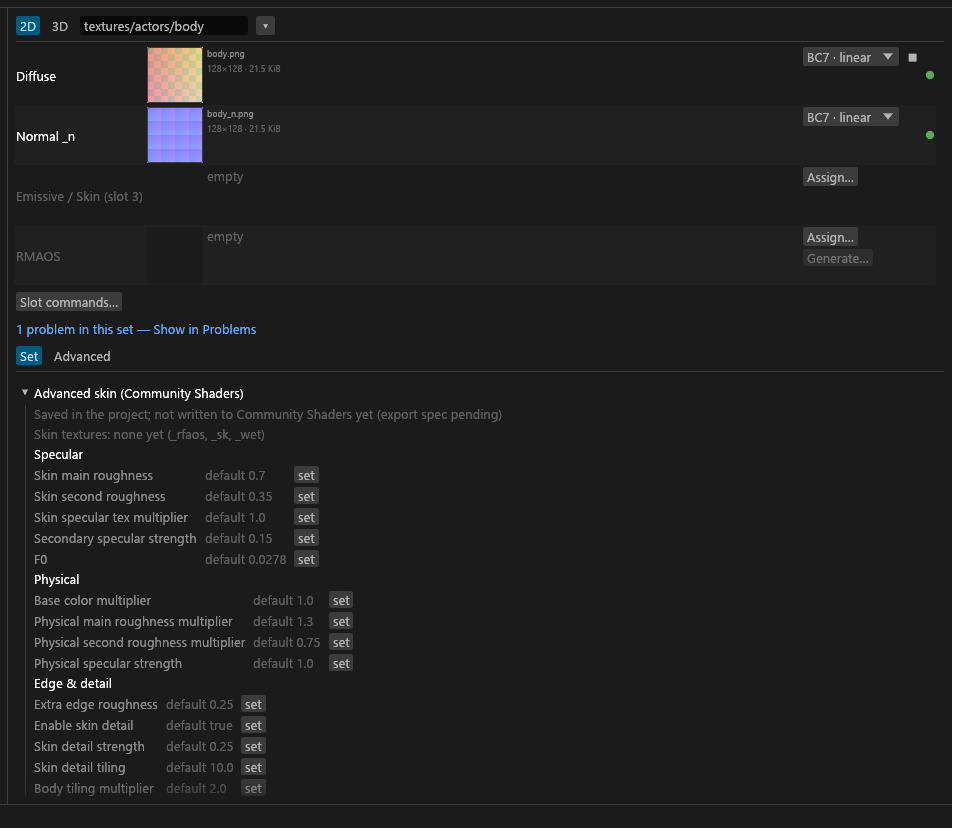
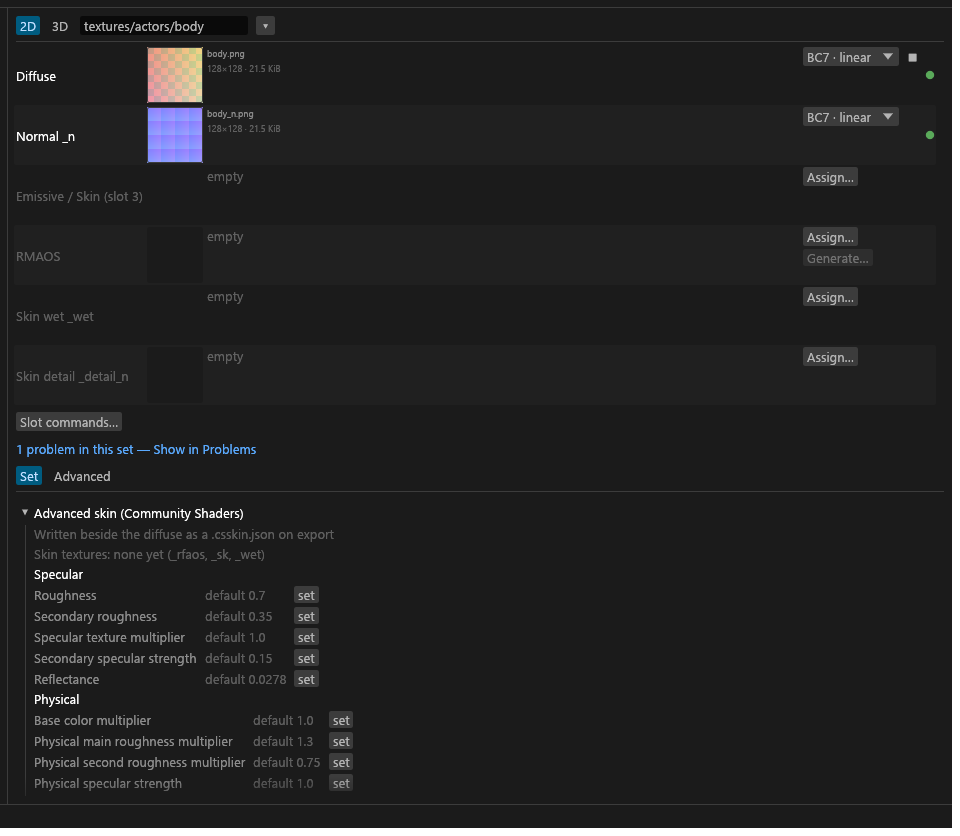
docs: Note HB CS Advanced Skin material files; wiki, changelog, skin card shot

diff --git a/.claude/DECISIONS.md b/.claude/DECISIONS.md
@@ -9,29 +9,29 @@ A new note goes at the end of this file and adds its letter to the index line of
 
 ## Index
 
-- Engine policy (formats, alpha gate, versions, writes): Answers, A, B, D, E, F, I, K, L, M, O, R, S, T, W, Y, AC, AG, AK, AV, AW, AX, AZ, BB, BC, BF, BJ, BL, BQ, BV, DB, DC, DM, DS, DY, FA, FF, FL, GJ, FM, FQ, FV, FZ
+- Engine policy (formats, alpha gate, versions, writes): Answers, A, B, D, E, F, I, K, L, M, O, R, S, T, W, Y, AC, AG, AK, AV, AW, AX, AZ, BB, BC, BF, BJ, BL, BQ, BV, DB, DC, DM, DS, DY, FA, FF, FL, GJ, FM, FQ, FV, FZ, HB
 - Analysis and alpha: A, E, L, M, S, T, U, X, Y, AH, AK, BC, CL, CN, DQ, DS, DU, DV, DW, DZ, FC, FM
 - Mips and resize: E, R, S, W, X, Y, CL, FM
 - Encoders: F, O, S, T, BZ, CB, CP, FE, FF, FJ, FM, FQ, FZ
 - Packing and helpers: B, H, I, M, R, W, AL, BB, BP, BQ, BV, CN, DR, DY, FB, FM, FQ, FV
 - Bake and RNM: E, M, R, W, Y, AL, BP, CL, CO, DP, FM, FN, FO, FV
 - Cubemaps: DL, DN, DS, DT, FA, FC, FM, FO, FQ, FT, FY
-- Presets and config: G, N, S, T, X, AE, AL, AM, AP, AS, AV, AZ, BC, BJ, BO, BQ, BR, BV, CN, CV, FB, FL, FM, FQ, FX, FY
-- Manifest and outputs: F, M, N, S, Y, AE, AF, AL, BJ, BQ, BV, CN, CT, DM, DY, FC, FM, FZ
-- Exports (PGPatcher, CS PBR, CM, XPMF, Also): P, V, AA, AB, AC, AD, AF, AG, AN, AT, BO, BR, BV, BY, CN, CO, CV, GE, GI, FM, FN, FO, FP, FT, FW, FV
+- Presets and config: G, N, S, T, X, AE, AL, AM, AP, AS, AV, AZ, BC, BJ, BO, BQ, BR, BV, CN, CV, FB, FL, FM, FQ, FX, FY, HB
+- Manifest and outputs: F, M, N, S, Y, AE, AF, AL, BJ, BQ, BV, CN, CT, DM, DY, FC, FM, FZ, HB
+- Exports (PGPatcher, CS PBR, CM, XPMF, Also): P, V, AA, AB, AC, AD, AF, AG, AN, AT, BO, BR, BV, BY, CN, CO, CV, GE, GI, FM, FN, FO, FP, FT, FW, FV, HB
 - CLI: I, J, K, X, BC, BQ, CN, DY, FC, FM, FX
-- GUI Files and Inspector: N, P, S, U, Z, AA, AE, AF, AG, AM, AN, AO, AV, AY, BH, BI, BN, BO, BR, BS, BV, BY, CA, CC, CD, CE, CF, CG, CV, DN, DO, DP, DU, DZ, FA, FB, FC, FD, FI, FK, FL, FM, FN, FO, FP, FT, FS, FW, FU, FY
+- GUI Files and Inspector: N, P, S, U, Z, AA, AE, AF, AG, AM, AN, AO, AV, AY, BH, BI, BN, BO, BR, BS, BV, BY, CA, CC, CD, CE, CF, CG, CV, DN, DO, DP, DU, DZ, FA, FB, FC, FD, FI, FK, FL, FM, FN, FO, FP, FT, FS, FW, FU, FY, HB
 - GUI Settings panel: S, V, X, Z, AF, AG, AJ, AN, AS, AW, BM, BS, CC, CL, CV, FB, FC, FM, FS, FT, FY
 - GUI Meshes view: BA, BT, CV, CZ, FC, FI, GC, GD, GH, GJ, GK, GN, GO, GP, FO, GQ
 - GUI Preview and 3D: N, AG, AQ, AU, BS, CE, CJ, CL, CM, DT, FA, GD, GG, GH, GJ, GK, GL, GM, FM, FO, GQ, FS, FT, FY, FZ
-- GUI Dialogs and Export: AG, BH, BO, BR, BV, BY, CA, CD, CE, CF, CN, CV, DT, FB, FC, FI, FM, FN, FO, FP, FS, FW, FU
+- GUI Dialogs and Export: AG, BH, BO, BR, BV, BY, CA, CD, CE, CF, CN, CV, DT, FB, FC, FI, FM, FN, FO, FP, FS, FW, FU, HB
 - modscan: BE, BQ, BT, BU, BW, BY, CK, CM, CN, CV, CW, DA, GA, GB, GC, GD, GJ, GO, GP, GQ
 - vfs: AV, BP, BU, CV
 - esp: GG, GO, GQ
 - nif: BT, CI, CM, CQ, CR, CS, CU, CV, CY, DJ, DK, GA, GC, GD, GF, GH, GP, GQ
 - render3d: BT, CI, CJ, CM, CV, CX, DL, GA, GG, GJ, GL, GM, GN, GP, FM, GQ
 - pgpsim: AU, CM, GE
-- Process and docs: Answers, BX, DM, FD, FG, FH, FM, HA
+- Process and docs: Answers, BX, DM, FD, FG, FH, FM, HA, HB
 
 ## Digest
 
@@ -176,7 +176,7 @@ Rules still in force at 2.0, one or two lines each, with the 1.x IDs (in `.claud
 - Suffix vocabulary follows industry names; `_normalgl`/`_normaldx` resolve automatically. [H]
 - Missing packed channels get neutral defaults plus a warning (AO white, metallic black, specular alpha white); roughness default 0.5. Fills are per packed output, `packing.fill.<role>`, 0–255. [H, M5, R-fills-2]
 - `packing.recipe` = `auto`, `rmaos` or `rfaos`; `rfaos` without fuzz uses the fuzz fill. [R-fills-1]
-- Advanced skin sub-types: `skin_albedo`, `skin_rf`, `skin_sk`, `skin_wet`. `rfaos` is not a sub-type id. [R-skin-1, R-review, FM11]
+- Advanced skin sub-types: `skin_albedo`, `skin_rf`, `skin_sk`, `skin_wet`, `skin_detail` (HB4). `rfaos` is not a sub-type id. [R-skin-1, R-review, FM11]
 - A skin `_f` fills the RFAOS fuzz mask in a set already Advanced skin by other evidence; `_f` never makes a set Advanced skin by itself; a real `_fuzz`/`_sheen` wins G. [DR1, DR2, DR3, DR7]
 - Env mask: a complex-material `_m` R is the metallic source, else specular, else the fill. [M1]
 - Raw maps without a recipe raise `PACK-UNUSED-INPUT` and are not written; with two raw maps of one role the first by path is used. [M2, M13]
@@ -197,7 +197,7 @@ Rules still in force at 2.0, one or two lines each, with the 1.x IDs (in `.claud
 - Helpers are a collapsible group under the tiles, not a filter pill; helper rows take the keyboard. [FB12, FM31]
 - `SET-MISSING-COMPANION` (info): a cs PBR set with `pbr_normal` but no roughness or the reverse, `_msn` without `_s` (not Eye), `_flow` without `_n`; `SET-COMPANION-DDS` (warning) when the companion is only a DDS. Neither on a `CFG-UNAVAILABLE` job or an albedo-only PBR set. [R8, BQ12]
 - A usable `_n` is decided (Ready, or Blocked such as `FMT-BC5-NORMAL`); an Unresolved `_n` gives its members `SET-MISSING-COMPANION` ("not decided yet"); with two `pbr_normal` jobs in a GUI-built set the first by path is used. [R9]
-- `_wet` is a suffix only on `cs` in an Advanced skin set (a real `_rfaos` member or a resolved recipe building `_rfaos`); `group::join_skin_wet` (after grouping, before set edits) moves `x_wet` into set `x`, folding Unicode; elsewhere `_wet` stays in the name (`road_wet`). A set listing `wet` keeps a suffix-less `*_wet` member through a Set Rename. [I3, BP2, BV9]
+- `_wet` and `_detail_n` (HB4) are suffixes only on `cs` in an Advanced skin set (a real `_rfaos` member or a resolved recipe building `_rfaos`); `group::join_skin_wet` (after grouping, before set edits) moves `x_wet` and `x_detail_n` into set `x`, folding Unicode; elsewhere they stay in the name (`road_wet`; `x_detail_n` groups as before). A set listing `wet` keeps a suffix-less `*_wet` member through a Set Rename. [I3, BP2, BV9]
 - Skin detection uses the recipe actually chosen (a forced `rmaos` with fuzz is not skin). RFAOS is offered only where buildable (roughness, glossiness or AO source); `PACK-RECIPE-UNBUILDABLE` is attached only when `auto` would not build `_rfaos`. [I1, I2, BQ13]
 - A failed or cancelled skin `_f` fails the `_rfaos` recipe (no default G): `pack::plan::skin_f_candidate` is the one predicate, `is_skin_f` adds "no requested sub-type", and `plan_packing` takes a role from `JobStatus::PackingInput { role }` when the name has none. A skin set writes no `_f.dds`; an old one is not removed. [DR4, DR5, DR8, DR9]
 - An `_orm` source adds an optional `channel` (0..=2) to `ChannelSource::Source`, serialised only when set (other jobs keep their bytes); provenance reads `iron_orm.png:G`. `RawMap::ALL` stays the eight single-channel fill roles (a fill for `orm` is refused). `_curvature` and `_curves` read as `curves`, `_cavity` as `cavity`. [AL3, CN2]
@@ -350,7 +350,7 @@ Rules still in force at 2.0, one or two lines each, with the 1.x IDs (in `.claud
 - A MATO-only landscape set needs no RMAOS. CS does not draw the projected normal and detail samples in this build (slot hover says so); they still export. A landscape `_noise` is always ProjectedNoise; a name-prefixed `_detail` stays an RNM layer. The two new kinds have no slot number, so no slot-keyed map gets them. The card shows every refusal `prepare` can know. The preview takes the profile's textures, coverage, then MATO DATA, cycling the layer when texture paths change. [GI10, GI15, GI16, GI17, GI18, GI19, GI21, GI22, GI25, GI28, GI29]
 - Delete sections are `[[pgp_sections]]` with `delete: true`, written after every set's entry, only with a texture match; alone they never write the JSON. [AB2, AF1]
 - JSON hash records name their file, one per file name. [BV7, BR6]
-- Advanced skin sets get no PGPatcher JSON. [AG90]
+- Advanced skin sets get no PGPatcher JSON; they get a `.csskin.json` instead (HB1). [AG90]
 - Community Shaders PBR texture sets and material objects: blocks from one source, guarded by the recorded hash, refusals per file. [AD1, AD2, AD5, AD6]
 - PGPatcher complex-material JSON (`[sets.cm]`); vanilla keeps a complex `_m`. [AT1, AT2]
 - XPMF profiles: every schema key in the block, one file per set named from the set id, the vendored schema checked before every write, null or empty optional values omitted, an `xpmf_sha256` record in a writable `sdc-project.toml`. [GI1, GI2, GI7, GI8, GI23]
@@ -373,7 +373,6 @@ Rules still in force at 2.0, one or two lines each, with the 1.x IDs (in `.claud
 - Vanilla/CPM borrowed slots are file copies, not tracked by the manifest; skipped with a note when the owner's output did not export. [P4, P22]
 - Krita and OpenRaster files are not read; PSD/PSB merged image and WebP are. [AC1, AC7, FM23]
 - OPEN: the CLI marks no inner-layer `_p`; a packed job is never copied under Also export. [CN]
-- OPEN: Community Shaders Advanced Skin override JSON export (the skin card's "Export JSON…" is a disabled placeholder, spec pending). [AG90]
 
 ### CLI
 
@@ -507,7 +506,7 @@ Rules still in force at 2.0, one or two lines each, with the 1.x IDs (in `.claud
 - `rename` is a file name (a `\` or `/` blocks export, one `.dds` cut); the prefix comes from the lowest active `matchN` under `textures\pbr\`. The TruePBR box: visual settings, Matching, then collapsed Advanced TruePBR settings (`path_contains`, `nif_filter`, `rename`, UV, vertex, locks, inner UV scale, coat colour). [V3, V7]
 - A set's slot cards are the picked shader's usable slots, filled or empty, plus filled slots it cannot use (amber outline, hover reason), ordered by PGPatcher slot 1-8. [V8]
 - Advanced skin card is separate from TruePBR, with non-inheritable fields and UI-only ranges. [AG79, AG81, AG83]
-- The skin card has the 20 `SkinProfile` fields in CS README order and key names, grouped Specular (5), Physical (4), Edge & detail (5), SSS (3), Fuzz (3); stored in the set's reserved `skin` table (explicit values; unknown keys survive), 4 decimals, one undo step per edit (a drag merges), never bulk; `_rfaos`, `_sk`, `_wet` members show as text. [AG80, AG82, AG84, AG85, AG89]
+- The skin card has the 22 CS Advanced Skin parameters in the contract's key names, in six groups: Specular, Physical, Edge & detail, Transmission, Fuzz, Wet (HB1, HB5); stored in the set's reserved `skin` table (explicit values; keys outside the 22 are dropped on the next edit, HB5), 4 decimals, one undo step per edit (a drag merges), never bulk; `_rfaos`, `_sk`, `_wet`, `_detail_n` members show as text. [AG80, AG82, AG84, AG85, AG89]
 - Fuzz colour starts at .04/.08 grey, fuzz strength 1 when enabled; RGB fields allow values above 1.0. [AG133]
 - Subsurface mode selector with an auto mode that can be pinned. [AG101, AG102, AG110]
 - Subsurface pitfalls are warnings: both keys on; Foliage on a set whose meshes are not Tree_Anim; Standard on Tree_Anim meshes. [AG104]
@@ -1118,3 +1117,12 @@ Engine fixes for trace-debug minors 26, 27, 28 and 40 and backlog R1. `golden` a
 - **HA2 The formats chart scores what GPUs decode.** BC1 is shown on rgbcx's NVIDIA and AMD models, BC3 alpha, BC4 and BC5 decoded rounding to nearest. Values are bench round 3 (93 to 96 images per set), and the rgbcx column is Tessalith's patched build: BC1 Dual (FM17), the wider BC4 block search (FJ1, FJ2). The BC1 row comes from a rescore of Tessalith 2.0's BC1 encode against the round-3 files ([BC1 Dual rescore](../docs/research/encoder-benchmark.md#bc1-dual-rescore-2026-11-04)). BC6H keeps its 4-HDRI source.
 - **HA3 Rows of one chart share their sample (BC6H aside, HA2).** bc7e `max` is charted at its round-1 Δ (+0.15 dB RGB, +0.04 dB premultiplied alpha) like the other BC7 rows, not the 150-texture tuning sample (+0.32); the README states its gain in place of the "separate sample" note. Colour follows the encoder in every chart (bc7e and rgbcx blue, ISPC orange, NVTT aqua, Compressonator violet, texconv magenta) in solid fills, and every bar has its value label; the stripe patterns are gone (owner, 2026-11-04). `tools/readme-charts.py` asserts that every full-width line fits the 780 px chart.
 - **HA4 The formats chart plots each format against Tessalith's encoder (owner, 2026-11-04).** Each format is scored on its own image set, so absolute dB on one shared axis invited comparisons across formats that mean nothing. Each bar is an encoder's PSNR minus Tessalith's default for that format (rgbcx for BC1 to BC5, ISPC for BC6H), which is the 0 line; the absolute values stay in the Research table, one row per format.
+
+## Note HB — CS Advanced Skin material files (main team, 2026-11-05)
+
+- **HB1 An Advanced skin set writes a `.csskin.json` on every export (owner, 2026-11-05).** Community Shaders' Advanced Skin keys a material on the diffuse texture: `<diffuse>.csskin.json` beside the exported diffuse names its parameters and its `controls` (`_rfaos`), `wet` and `detail` textures. The file is `{format: "CommunityShaders.SkinMaterial", version: 1, parameters?, textures?, authoredFor}`. `parameters` holds only the keys the user set on the card, all from the 22-name contract and in range; `textures` holds lower-case `textures/...dds` paths with `/` separators, re-based from the output under the export root; `authoredFor` is the exported diffuse's size and FNV-1a 64 hash. It is written automatically like the PGPatcher JSON: no button and no opt-out (the disabled "Export JSON…" placeholder is gone). Before writing, the recorded hash is checked with a guarded write shared with the CM JSON: an edited file is kept and a note says so. A file no skin set writes any more is left in the export folder and listed as a note, never deleted. A value outside its range (`skin::skin_value_problem`, the one validator for the red block and the writer) blocks the export with a red Problems row; it is never clamped or written. Writer: `crates/gui/src/model/cs_skin_json.rs`. Closes the OPEN item of AG90.
+- **HB2 Only the set that exports the diffuse writes the file; wet and detail slots can be borrowed (owner, 2026-11-05).** A set with no diffuse, a borrowed diffuse, or a host that is not an Advanced skin set writes no file, and gets an amber Problems row (NoDiffuse, BorrowedDiffuse, HostNotSkin, HostMissing). A texture slot that is empty, or borrowed from a host that does not produce the file, is left out of `textures` with an amber row; a path is never written for a file that does not exist. `_wet` and `_detail_n` are `SlotKind::SkinWet` = 9 and `SkinDetail` = 10, past `LAST_GAME_SLOT` = 8, so the existing locks, borrows and Share apply to them; game-facing writers use `game_slot()` and never see 9 or 10, and the slot menu offers **Clear borrow**.
+- **HB3 A grey `_wet` is not written (owner, 2026-11-05).** Community Shaders removed the grey/height wet form (CS commit 176a0083), so `skin_wet` is BC7 only (a normal with a mask in alpha) and the `skin-wet-form` fact and the BC4 exception are gone. The engine moves a grey `_wet` to `plan.skipped` with the warning `SKIN-WET-GREY`, so the CLI and GUI agree and the rest of the batch still writes. `skin_rfaos`, `skin_wet` and `skin_detail` accept only the formats CS's texture loader reads (BC1, BC3, BC7, RGBA8; BC5 too for `skin_detail`); any other explicit format is `FMT-CS-SKIN-LOADER`, a Blocking code that `--allow` cannot downgrade.
+- **HB4 `skin_detail`, suffix `_detail_n` (owner, 2026-11-05).** A new sub-type, recognised only in an Advanced skin set on `cs` (elsewhere `x_detail_n` groups as before, a normal of base `x_detail`). Its source becomes BC5 when every alpha value is 255 or it has no alpha, else BC7; an explicit format wins within the loader list. It is exempt from `FMT-BC5-NORMAL`, since BC5 is the intended form for CS's detail normal.
+- **HB5 Old skin card keys are dropped (owner, 2026-11-05).** The card edits the 22 contract parameters in six groups (Specular, Physical, Edge & detail, Transmission, Fuzz, Wet). Keys outside them (`SkinMainRoughness`, `F0`, `UseSSS`, `sssWidth`, …) are not translated and are removed from a set's `skin` table on its next edit (`SetsDoc::retain_skin`); nothing reads them.
+- **HB6 Version 2.1.0 (MINOR, DM8).** The workspace version is 2.1.0 and `RELEASED_ENGINE_VERSION` stays 2.0.0 until release. The `SkinWet` and `SkinDetail` arms of `encode_version` return `ENGINE_VERSION`: the first changes bytes and verdicts for a grey source and the loader formats, the second is new. No other arm changes; the encode-version pins changed only for those two types.

diff --git a/docs/wiki/GUI-Set-Materials.md b/docs/wiki/GUI-Set-Materials.md
@@ -4,18 +4,24 @@ The material cards a set gets in place of, or beside, the PGPatcher settings: Ad
 
 ## Advanced skin card
 
-A set whose diffuse is an **Advanced skin** (`skin_albedo`) gets an **Advanced skin (Community Shaders)** card instead of the TruePBR settings. It lists the set's skin textures (`_rfaos`, `_sk`, `_wet`) and the 20 per-material Community Shaders skin settings in five groups: Specular, Physical, Edge & detail, SSS and Fuzz. Wetness is not here: Community Shaders keeps it global.
+A set whose diffuse is an **Advanced skin** (`skin_albedo`) gets an **Advanced skin (Community Shaders)** card instead of the TruePBR settings. It lists the set's skin textures (`_rfaos`, `_sk`, `_wet`, `_detail_n`) and the 22 per-material Community Shaders skin settings in six groups: Specular, Physical, Edge & detail, Transmission, Fuzz and Wet.
 
 ![The Advanced skin card of a body set.](../img/gui/GUI-Set-Materials/skin-card.png)
 
 - **Choosing the Advanced Skin shader** on a set's card (Community Shaders target) also makes the set's diffuse `skin_albedo`, so a packed `_rmaos` becomes `_rfaos`, in the same undo step. It does this when the diffuse's sub-type was inferred or is plain `diffuse`; a sub-type you picked yourself (say `pbr_albedo`) is kept. Choosing another shader, or Auto, puts back what was there before (inferred, or your `diffuse`), and the packed output returns to `_rmaos`, unless you have changed the diffuse's sub-type since or pinned its slot. Tessalith remembers which diffuses it changed in `sdc-project.toml` (`[project] auto_skin`).
 - **The shader decides the reading, unless the diffuse is pinned.** While a set's shader is Advanced Skin, its diffuse reads as `skin_albedo` whether its sub-type is inferred or written as plain `diffuse`; only another sub-type you picked yourself stays. A pinned Diffuse slot blocks this: the set reads and packs as it would without the shader (Tessalith writes nothing into a pinned slot), while a diffuse already written as `skin_albedo` keeps it. The packed output is `_rfaos` (*RFAOS (skin) (auto)* on the card) when the set can build one and the card's recipe does not say RMAOS; a set with only a metallic map, or with a pre-packed `_rmaos`, keeps it. A set saved with the Advanced Skin shader switches on open, with nothing written.
 - Each setting is **not set** (the Community Shaders default shows beside it, for example "default 0.7", and nothing is stored) or an explicit value on this set. **set** stores the default as a value you can then change; **↺** returns it to not set. Presets, defaults and rules never fill these, and sets do not inherit from each other.
-- Values are saved in the set's `skin` table of `sdc-project.toml` under the Community Shaders key names. Keys Tessalith does not know are kept.
-- **Saved in the project, not written to Community Shaders.** Export does not change for these. The card's **Export JSON** section is a greyed-out placeholder until that export is specified.
+- Values are saved in the set's `skin` table of `sdc-project.toml` under the Community Shaders key names. Keys from before 2.1 (`SkinMainRoughness`, `F0`, `UseSSS` and the rest) are not read; the next edit of the set removes them, and the card starts from not set. <!-- D:HB5 -->
+- **Export writes the material file.** Every export writes `<diffuse>.csskin.json` beside the set's exported diffuse, with the values you set, the paths of the set's `_rfaos`, `_wet` and `_detail_n`, and the diffuse's size and hash. Only values you set are written, and a card you never touched writes none. There is no button and no opt-out. <!-- D:HB1 -->
+  - **A value outside its range blocks the export** with a red Problems row naming the set and the setting; it is never clamped or written. Edit it on the card.
+  - **A texture a slot does not export is left out** of the file, with an amber row. A path in the file always names a file the export wrote or one already in the export folder.
+  - **A set with no diffuse, or one whose diffuse is borrowed, writes no file** and gets an amber row. Community Shaders keys a material on the diffuse file, so only the set that exports the diffuse writes the file; if that set is an Advanced skin set, its card sets the material. <!-- D:HB2 -->
+  - **A grey `_wet` is not exported.** Community Shaders no longer reads a grey wet map; use a normal with a mask in alpha. The set's other files still write (`SKIN-WET-GREY`). <!-- D:HB3 -->
+  - **Wet and detail slots can be borrowed** like the game slots: the slot menu offers **Clear borrow**, and the file points at the host set's exported texture.
+  - **An edited `.csskin.json` is kept**, as an edited PGPatcher JSON is, and Export says so. A file no skin set writes any more is left in place and listed in the export notes.
 - **No PGPatcher JSON.** A skin set has no TruePBR settings, no PGPatcher JSON entry (the next export that writes the JSON leaves it out), no entry in the JSON editor and no PGPatcher checks. Its pill reads "skin" and its hover "Advanced skin (no JSON)". Its textures still encode as skin textures. If no PBR set is left, the JSON is not written and the old file stays as it was.
 - **Where skin sets write.** A skin set's files go to their normal paths (mirroring the source folders), not under `textures\pbr\<prefix>\`, and **Rename** names its outputs with an output name, as for any set without JSON.
-- Number boxes clamp to a range (0–1, 0–4 for multipliers, 0.1–100 for the detail tiling) and keep 4 decimals. Each edit is one undo step, and a drag on one value is one step. Bulk edit does not touch these.
+- Number boxes limit to the Community Shaders range for their setting (for example 0–1, 0–10 for the specular texture multiplier, 0.1–100 for the detail tiling) and keep 4 decimals. Each edit is one undo step, and a drag on one value is one step. Bulk edit does not touch these.
 
 ## PBR Landscape
 

diff --git a/.claude/DECISIONS-ARCHIVE.md b/.claude/DECISIONS-ARCHIVE.md
@@ -135,6 +135,27 @@ ARCHIVED (wording before the edit; superseded in part by Note FZ, 2026-11-04)
 ARCHIVED (wording before the edit; superseded in part by Note HA, 2026-11-04)
 - Process and docs: Answers, BX, DM, FD, FG, FH, FM
 
+ARCHIVED (wording before the edit; superseded in part by Note HB, 2026-11-05)
+- Engine policy (formats, alpha gate, versions, writes): Answers, A, B, D, E, F, I, K, L, M, O, R, S, T, W, Y, AC, AG, AK, AV, AW, AX, AZ, BB, BC, BF, BJ, BL, BQ, BV, DB, DC, DM, DS, DY, FA, FF, FL, GJ, FM, FQ, FV, FZ
+
+ARCHIVED (wording before the edit; superseded in part by Note HB, 2026-11-05)
+- Manifest and outputs: F, M, N, S, Y, AE, AF, AL, BJ, BQ, BV, CN, CT, DM, DY, FC, FM, FZ
+
+ARCHIVED (wording before the edit; superseded in part by Note HB, 2026-11-05)
+- Presets and config: G, N, S, T, X, AE, AL, AM, AP, AS, AV, AZ, BC, BJ, BO, BQ, BR, BV, CN, CV, FB, FL, FM, FQ, FX, FY
+
+ARCHIVED (wording before the edit; superseded in part by Note HB, 2026-11-05)
+- Exports (PGPatcher, CS PBR, CM, XPMF, Also): P, V, AA, AB, AC, AD, AF, AG, AN, AT, BO, BR, BV, BY, CN, CO, CV, GE, GI, FM, FN, FO, FP, FT, FW, FV
+
+ARCHIVED (wording before the edit; superseded in part by Note HB, 2026-11-05)
+- GUI Files and Inspector: N, P, S, U, Z, AA, AE, AF, AG, AM, AN, AO, AV, AY, BH, BI, BN, BO, BR, BS, BV, BY, CA, CC, CD, CE, CF, CG, CV, DN, DO, DP, DU, DZ, FA, FB, FC, FD, FI, FK, FL, FM, FN, FO, FP, FT, FS, FW, FU, FY
+
+ARCHIVED (wording before the edit; superseded in part by Note HB, 2026-11-05)
+- GUI Dialogs and Export: AG, BH, BO, BR, BV, BY, CA, CD, CE, CF, CN, CV, DT, FB, FC, FI, FM, FN, FO, FP, FS, FW, FU
+
+ARCHIVED (wording before the edit; superseded in part by Note HB, 2026-11-05)
+- Process and docs: Answers, BX, DM, FD, FG, FH, FM, HA
+
 ## Digest
 
 ARCHIVED (superseded by Note FM, 2026-11-03)
@@ -280,3 +301,18 @@ ARCHIVED (wording before the edit; superseded in part by Note FZ, 2026-11-04)
 
 ARCHIVED (wording before the edit; superseded in part by Note FZ, 2026-11-04)
 - GUI Preview and 3D: N, AG, AQ, AU, BS, CE, CJ, CL, CM, DT, FA, GD, GG, GH, GJ, GK, GL, GM, FM, FO, GQ, FT, FS
+
+ARCHIVED (wording before the edit; superseded in part by Note HB4, 2026-11-05)
+- Advanced skin sub-types: `skin_albedo`, `skin_rf`, `skin_sk`, `skin_wet`. `rfaos` is not a sub-type id. [R-skin-1, R-review, FM11]
+
+ARCHIVED (wording before the edit; superseded in part by Note HB4, 2026-11-05)
+- `_wet` is a suffix only on `cs` in an Advanced skin set (a real `_rfaos` member or a resolved recipe building `_rfaos`); `group::join_skin_wet` (after grouping, before set edits) moves `x_wet` into set `x`, folding Unicode; elsewhere `_wet` stays in the name (`road_wet`). A set listing `wet` keeps a suffix-less `*_wet` member through a Set Rename. [I3, BP2, BV9]
+
+ARCHIVED (wording before the edit; superseded in part by Note HB1, 2026-11-05)
+- Advanced skin sets get no PGPatcher JSON. [AG90]
+
+ARCHIVED (superseded by Note HB1, 2026-11-05)
+- OPEN: Community Shaders Advanced Skin override JSON export (the skin card's "Export JSON…" is a disabled placeholder, spec pending). [AG90]
+
+ARCHIVED (wording before the edit; superseded in part by Note HB5, 2026-11-05)
+- The skin card has the 20 `SkinProfile` fields in CS README order and key names, grouped Specular (5), Physical (4), Edge & detail (5), SSS (3), Fuzz (3); stored in the set's reserved `skin` table (explicit values; unknown keys survive), 4 decimals, one undo step per edit (a drag merges), never bulk; `_rfaos`, `_sk`, `_wet` members show as text. [AG80, AG82, AG84, AG85, AG89]

diff --git a/docs/wiki/Texture-Types.md b/docs/wiki/Texture-Types.md
@@ -51,6 +51,7 @@ Suffixes are matched case-insensitively, longest first, so `_msn` wins over `_n`
 | `_sk` | `skin_sk` in an Advanced skin set; otherwise `backlight_tint` | High, Low |
 | `_i` | `diffuse` (multilayer inner layer) | Medium |
 | `_wet` | `skin_wet`, only in a `cs` Advanced skin set; elsewhere `_wet` is part of the base name | High |
+| `_detail_n` | `skin_detail`, only in a `cs` Advanced skin set; elsewhere it keeps its usual grouping | High |
 | `_e`, or a file under `textures\cubemaps\` | `cubemap`; the six-face suffixes `_posx` to `_negz` (or `_px` to `_nz`) after the name are cut off first | High |
 
 A set is a PBR set (under `cs`) when its path has a `pbr` folder, or it has an `_rmaos`, `_rfaos`, `_cnr` or `_f` member, or it has a raw roughness, glossiness, metallic or AO map. A set is an Advanced skin set when it has or builds an `_rfaos`; a set whose shader you set to Advanced Skin (GUI, or `--set set:<id>.shader=advanced_skin`) builds one unless `packing.recipe` says otherwise or it has only a metallic map, and its diffuse is `skin_albedo` either way (also when written as plain `diffuse`). In the GUI, pinning the set's Diffuse slot turns this off: the set then reads and packs as it would without the shader choice, unless its diffuse is already written as `skin_albedo`. In an Advanced skin set a plain `_f` is the skin fuzz mask: a greyscale map packed into the `_rfaos` G channel and not converted on its own. A `_f` never makes a set Advanced skin by itself, and one you give a sub-type converts alone as fuzz.
@@ -110,7 +111,8 @@ There are 33 sub-types in five categories.
 | `detail_normal` | Normal | BC7 | UNORM | data | A landscape set's detail normal for an XPMF profile. Not an RNM base: no layers blend into it. A `_detail` or `_detailnorm` file in a landscape set is read as it ([XPMF profiles](XPMF-Profiles.md#projected-noise-and-detail-normal)); in other sets no suffix suggests it, so pick it on the file. |
 | `msn` | Normal | BC7 | UNORM | remove | Model-space normal. |
 | `coat_normal` | Normal | BC7 | UNORM | data | `cs` only. Normal plus coat roughness in alpha; bakes its own detail into that roughness. |
-| `skin_wet` | Normal | BC7, or BC4 for grey content | UNORM | data | `cs` Advanced skin. Grey content is read as a height map (BC4), colour as a normal with a mask in alpha (BC7). |
+| `skin_wet` | Normal | BC7 | UNORM | data | `cs` Advanced skin: a normal with a mask in alpha. A grey source is not written (`SKIN-WET-GREY`). The Community Shaders loader reads BC1, BC3, BC7 and RGBA8 only (`FMT-CS-SKIN-LOADER`, which `--allow` cannot lift). <!-- D:HB3,HB4 --> |
+| `skin_detail` | Normal | BC5 when the source is opaque, else BC7 | UNORM | data | `cs` Advanced skin, `_detail_n`: a tangent normal with a strength mask in alpha. BC5 is allowed on it, and it is not held to the BC5 normal check. <!-- D:HB4 --> |
 | `envmask` | Grayscale | BC4 | UNORM | remove, exact opaque | Environment mask (`_m`). |
 | `height` | Grayscale | BC4 | UNORM | remove | Parallax height (`_p`). |
 | `projected_noise` | Grayscale | BC4 | UNORM | remove | `_noise`: a landscape set's projected-noise map for an XPMF profile. |

diff --git a/CHANGELOG.md b/CHANGELOG.md
@@ -1,5 +1,12 @@
 # Changelog
 
+## 2.1.0 (Unreleased)
+
+- Community Shaders Advanced skin material files: every export writes `<diffuse>.csskin.json` for each Advanced skin set, with the values set on the skin card, the paths of the set's `_rfaos`, `_wet` and `_detail_n` (a borrowed slot points at the host set's file) and the diffuse's size and hash. There is no button and no opt-out; the card's **Export JSON** placeholder is gone. An edited file is kept, a stale one is left in place and listed in the export notes. A set with no diffuse or a borrowed diffuse writes no file, and a value outside the Community Shaders range blocks the export. See docs/wiki/GUI-Set-Materials.md#advanced-skin-card.
+- The skin card edits the 22 parameters of the new Community Shaders contract in six groups (Specular, Physical, Edge & detail, Transmission, Fuzz, Wet). Values saved under the old names (`SkinMainRoughness`, `F0`, `UseSSS`, `sssWidth` and the rest) are not translated: the next edit of the set removes them and the card starts from not set.
+- New sub-type `skin_detail`, suffix `_detail_n`, recognised only in an Advanced skin set on `cs`. It encodes as BC5 when its source is opaque and BC7 otherwise, and is not held to `FMT-BC5-NORMAL`. A set's `_wet` and `_detail_n` have slots 9 and 10 in the GUI, so they can be borrowed and cleared like the game slots; they never reach a PGPatcher JSON or a texture set.
+- `skin_wet` is always BC7 (a normal with a mask in alpha); the BC4 height form is gone. A grey `_wet` is not written (new warning `SKIN-WET-GREY`) and the rest of the batch still writes. `skin_rfaos`, `skin_wet` and `skin_detail` accept only the formats the Community Shaders loader reads (BC1, BC3, BC7, RGBA8, plus BC5 for `skin_detail`); another format is `FMT-CS-SKIN-LOADER`, which `--allow` cannot lift. Existing `skin_wet` outputs re-encode once; no other type's bytes change.
+
 ## 2.0.0
 
 - 2.0.0 re-encodes every output once (one encode version for every texture type). The version change alone changes no bytes; bytes change only where a line below says so. Records written by 1.x are stale, so the next export writes them again.

diff --git a/docs/wiki/Troubleshooting.md b/docs/wiki/Troubleshooting.md
@@ -8,7 +8,7 @@ Things you may run into in version 2.0.0, and what to do about them.
 
 **The graphics device can be lost.** The cause is not proven; it often happens after a long session, around alt-tab or screen capture. Tessalith shows a message that the device was lost and that unsaved edits were kept, then restarts or closes. Unsaved edits come back the next time you open the folder ([crash recovery](GUI-Settings.md#when-something-goes-wrong)). The crash log is in the logs folder ([where](Installation.md#where-tessalith-keeps-its-files)); attach it if you report the crash.
 
-**The Advanced skin card does not export.** The card saves its values in the project, but nothing is written to Community Shaders. Its **Export JSON...** button is greyed out on purpose.
+**An Advanced skin set wrote no `.csskin.json`.** The set needs its own diffuse (a borrowed diffuse writes no file; the host set's card sets the material), and an amber Problems row says which case it is. See [Set materials](GUI-Set-Materials.md#advanced-skin-card).
 
 **PBR grass is approximated in the 3D preview.** The preview draws the PBR grass shader type with the normal PBR shader: no wind, no wrapped diffuse, no grass LOD. The exported files are not affected.
 

diff --git a/docs/wiki/Presets-and-Targets.md b/docs/wiki/Presets-and-Targets.md
@@ -29,7 +29,7 @@ Under `cs` every sub-type is available. Under `vanilla`, some are not:
 | `pbr_emissive` | no | `glow` |
 | `pbr_normal` | no | `normal` |
 | `pbr_subsurface`, `pbr_fuzz`, `coat_normal`, `rmaos`, `skin_rfaos` | no | none |
-| `skin_albedo`, `skin_sk`, `skin_wet` | no | none |
+| `skin_albedo`, `skin_sk`, `skin_wet`, `skin_detail` | no | none |
 | `flow`, `hdr_sky` | no | none |
 
 A file whose sub-type is unavailable is blocked with `CFG-UNAVAILABLE`. When a fallback exists, `--allow CFG-UNAVAILABLE` (or the GUI's acknowledge button) converts it as the fallback. When none exists, change the sub-type or the target.
